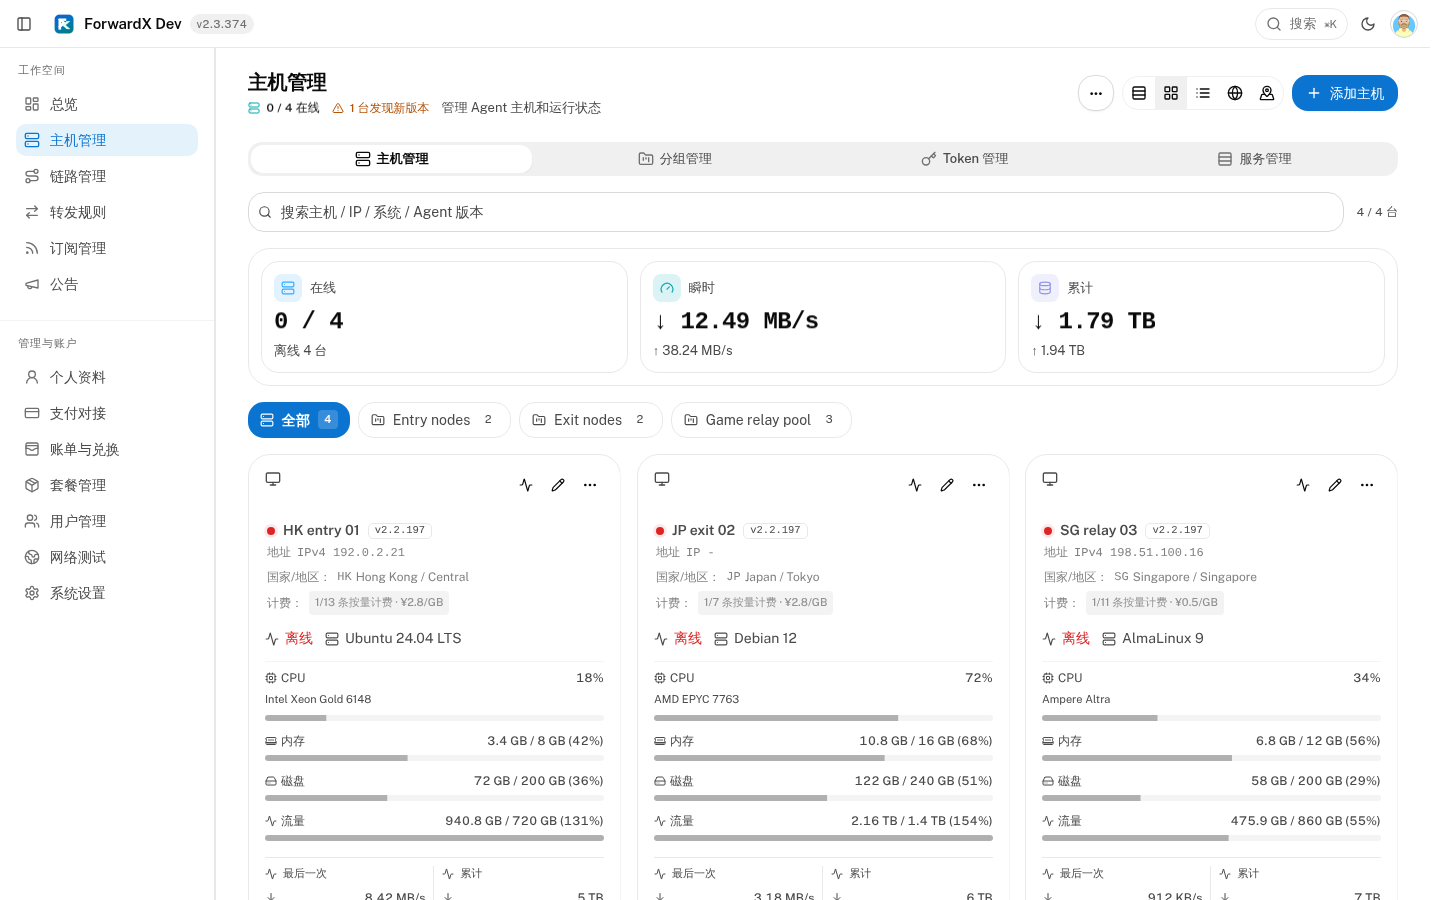
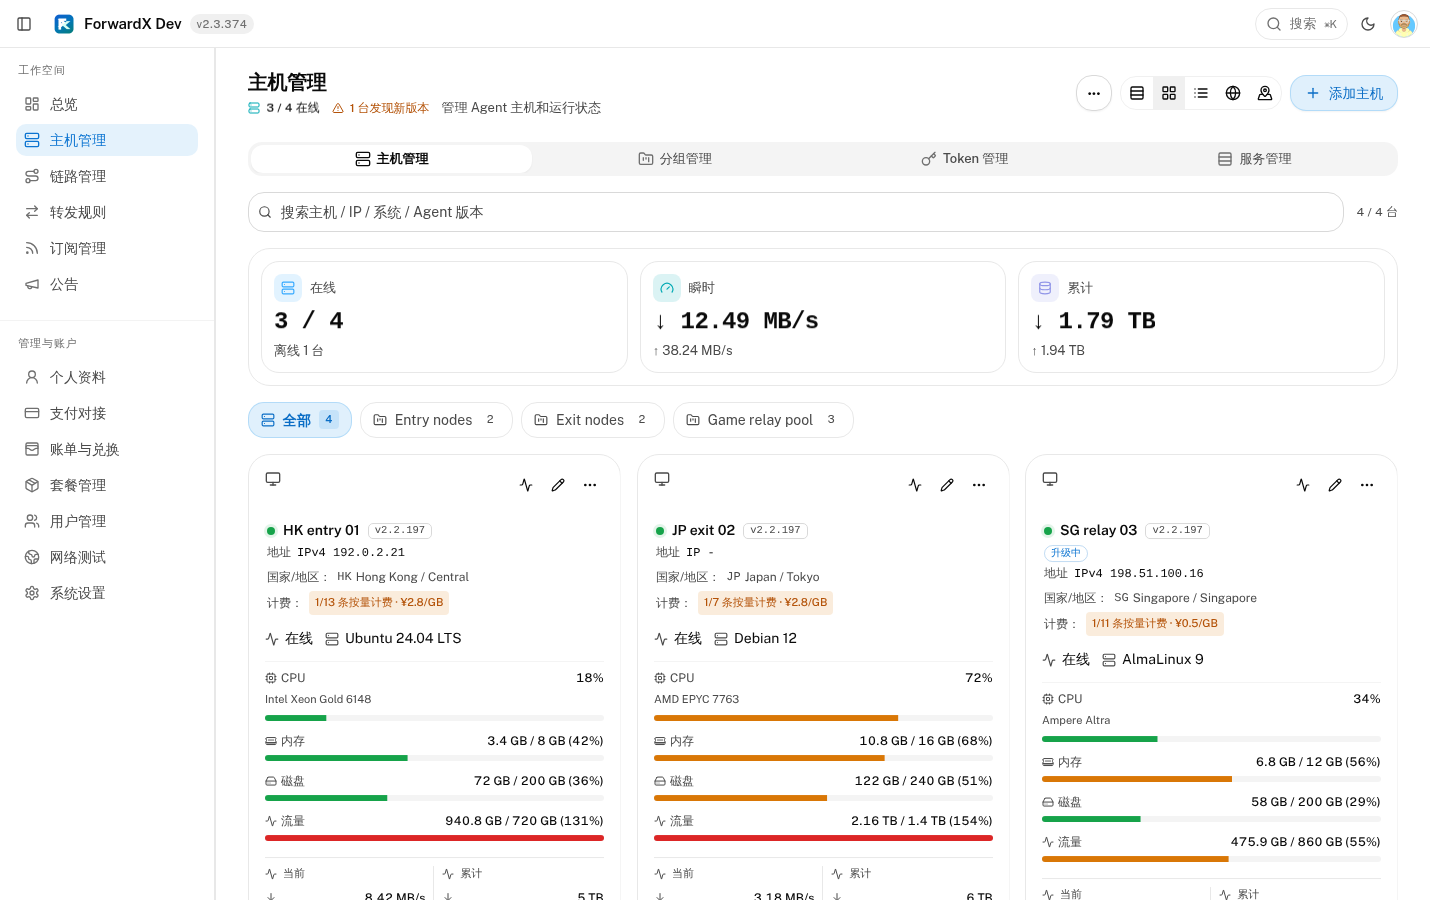
主按钮改成天蓝淡底 + 天蓝字；外壳和弹层换毛玻璃
真机反馈圈了三处：主按钮、分段控件选中项、分类 chip 选中项 —— 都是饱和
的蓝实底白字。改成 iOS tinted：新令牌 --fx-primary-fill / -text / -stroke，
Button default、手机分段选中项、主机分组 chip、首页 journey switch 一起变；
开关 / 复选 / 进度条仍用实底 --fx-accent-fill。

毛玻璃只给固定外壳和弹层：顶栏、底部标签栏、分段控件槽、对话框 / 底部
sheet / 下拉菜单（--fx-glass + backdrop-filter），滚动内容不做模糊，
不支持 backdrop-filter 的浏览器退回实底。

Claude-Session: https://claude.ai/code/session_01D4F5S9bacpgTT23HG89MY2

diff --git a/client/src/styles/workspace.css b/client/src/styles/workspace.css
@@ -6,7 +6,21 @@
   照参考站（New API / Vexo）：一条 48px 的顶栏横贯整个宽度，侧栏从它下面开始。
   顶栏是 sticky 的、和页面同一张白纸，滚起来才浮出下面那条细线。
 */
-.workspace-appbar { position: sticky; top: 0; z-index: var(--fx-z-sticky); flex-shrink: 0; height: calc(var(--fx-header-height) + env(safe-area-inset-top, 0px)); padding-top: env(safe-area-inset-top, 0px); background: color-mix(in srgb, var(--fx-l0-page) 88%, transparent); backdrop-filter: saturate(180%) blur(16px); -webkit-backdrop-filter: saturate(180%) blur(16px); border-bottom: 1px solid var(--fx-stroke-weak); }
+.workspace-appbar { position: sticky; top: 0; z-index: var(--fx-z-sticky); flex-shrink: 0; height: calc(var(--fx-header-height) + env(safe-area-inset-top, 0px)); padding-top: env(safe-area-inset-top, 0px); background: var(--fx-glass); backdrop-filter: var(--fx-glass-blur); -webkit-backdrop-filter: var(--fx-glass-blur); border-bottom: 1px solid var(--fx-stroke-weak); }
+/*
+  毛玻璃（照 iOS 的材质）：固定不动的外壳和浮在内容上面的弹层用 —— 顶栏、底部标签栏、
+  分段控件、对话框、抽屉、弹出菜单。内容从它们底下滑过时透出一点颜色，这是「下面还有」的
+  信号。**滚动的内容本身不做模糊**：backdrop-filter 在手机上每帧都要重算它盖住的那块，
+  盖在一整页列表上就是卡顿的来源；小块、固定的面才划算。不支持 backdrop-filter 的浏览器
+  退回实底。
+*/
+.fx-glass { background: var(--fx-glass); backdrop-filter: var(--fx-glass-blur); -webkit-backdrop-filter: var(--fx-glass-blur); }
+[role="dialog"][data-state="open"].fx-glass-surface,
+[role="menu"].fx-glass-surface, [role="listbox"].fx-glass-surface, .fx-glass-surface { background: var(--fx-glass-strong); backdrop-filter: var(--fx-glass-blur); -webkit-backdrop-filter: var(--fx-glass-blur); }
+@supports not ((backdrop-filter: blur(1px)) or (-webkit-backdrop-filter: blur(1px))) {
+  .workspace-appbar, .fx-tabbar, .fx-glass { background: var(--fx-l1-surface); }
+  .fx-glass-surface { background: var(--fx-l2-elevated, var(--fx-l1-surface)); }
+}
 .workspace-appbar-inner { display: flex; align-items: center; gap: 6px; height: var(--fx-header-height); padding-inline: 8px 10px; }
 .workspace-appbar-icon { display: inline-flex; align-items: center; justify-content: center; width: 32px; height: 32px; border-radius: 10px; color: var(--fx-text-secondary); transition: background-color 120ms, color 120ms; }
 .workspace-appbar-icon:hover { background: var(--fx-hover); color: var(--fx-text); }
@@ -542,9 +556,10 @@
     要左右滑，左边还压着一个滚动箭头。换成数字之后五项一屏放得下。
   */
   .workspace-tabs .workspace-tab { border: 0; border-radius: var(--fx-radius); gap: 3px; font-size: 14px; font-weight: 500; min-height: 34px; padding: 0 7px; }
+  /* 选中项：天蓝淡底 + 天蓝字（iOS tinted），不再是实心蓝底白字 —— 真机反馈那块太重 */
   .workspace-tabs .workspace-tab[data-state="active"] {
-    background: var(--fx-accent-fill); color: var(--fx-accent-fill-foreground); font-weight: 600;
-    box-shadow: none;
+    background: var(--fx-primary-fill); color: var(--fx-primary-text); font-weight: 600;
+    box-shadow: inset 0 0 0 1px var(--fx-primary-stroke);
   }
   .workspace-tab-count {
     min-width: 0; height: auto; padding: 0; border-radius: 0;
@@ -553,7 +568,7 @@
   /* 选中块反色之后数字也跟着反过来，否则青底上一个深灰数字看不见 */
   .workspace-tabs .workspace-tab[data-state="active"] .workspace-tab-count {
     background: transparent;
-    color: color-mix(in srgb, var(--fx-accent-fill-foreground) 78%, transparent);
+    color: color-mix(in srgb, var(--fx-primary-text) 78%, transparent);
   }
 
   /*
@@ -852,7 +867,7 @@
 /* 三步上手 */
 .public-journey-switch { display: flex; gap: 2px; padding: 3px; border: 1px solid var(--fx-stroke-weak); border-radius: var(--fx-radius-pill); background: var(--fx-l1-surface); }
 .public-journey-switch button { min-height: 34px; padding: 6px 16px; border-radius: var(--fx-radius-pill); font-size: 13px; font-weight: 500; color: var(--fx-text-secondary); transition: color 120ms, background-color 120ms; }
-.public-journey-switch button[aria-pressed="true"] { background: var(--fx-accent-fill); color: var(--fx-accent-fill-foreground); }
+.public-journey-switch button[aria-pressed="true"] { background: var(--fx-primary-fill); color: var(--fx-primary-text); box-shadow: inset 0 0 0 1px var(--fx-primary-stroke); }
 .public-journey { display: grid; grid-template-columns: repeat(3, minmax(0, 1fr)); gap: 24px; margin: 0; padding: 0; list-style: none; }
 .public-journey li { min-width: 0; padding: 24px; border: 1px solid var(--fx-stroke-weak); border-radius: var(--fx-radius-surface); background: var(--fx-l1-surface); }
 .public-journey-icon { position: relative; display: grid; place-items: center; width: 56px; height: 56px; margin-bottom: 20px; border: 1px solid var(--fx-stroke-weak); border-radius: 16px; background: var(--fx-l2-group); color: var(--fx-text); }
@@ -1118,9 +1133,9 @@
       标签栏是少数应该半透明的东西：内容从它底下滑过去时透出来的那点颜色
       就是「下面还有，能继续滚」。这是信息，不是装饰。
     */
-    background: color-mix(in srgb, var(--fx-l1-surface) 82%, transparent);
-    backdrop-filter: saturate(180%) blur(20px);
-    -webkit-backdrop-filter: saturate(180%) blur(20px);
+    background: var(--fx-glass);
+    backdrop-filter: var(--fx-glass-blur);
+    -webkit-backdrop-filter: var(--fx-glass-blur);
   }
 
   .fx-tabbar-item {
@@ -1417,4 +1432,17 @@
     max-height: 92svh;
   }
   .fx-action-sheet [data-fx-dialog-close] { display: none; }
+}
+
+/* 分段控件的槽也是毛玻璃：小块、放在页面顶上，模糊代价小。写在最后，压过上面桌面和手机两处的实底。 */
+.workspace-tabs { background: color-mix(in srgb, var(--fx-l3-control-fill) 72%, transparent); backdrop-filter: saturate(160%) blur(12px); -webkit-backdrop-filter: saturate(160%) blur(12px); }
+@supports not ((backdrop-filter: blur(1px)) or (-webkit-backdrop-filter: blur(1px))) { .workspace-tabs { background: var(--fx-l3-control-fill); } }
+
+/*
+  弹层也是毛玻璃：对话框（含手机上的底部 sheet）、下拉菜单、选择框的列表。只改 background-color，
+  手机 sheet 顶上那道用 background-image 画的把手不受影响。
+*/
+.dialog-panel, .action-menu-content, [role="menu"], [role="listbox"] { background-color: var(--fx-glass-strong); backdrop-filter: var(--fx-glass-blur); -webkit-backdrop-filter: var(--fx-glass-blur); }
+@supports not ((backdrop-filter: blur(1px)) or (-webkit-backdrop-filter: blur(1px))) {
+  .dialog-panel, .action-menu-content, [role="menu"], [role="listbox"] { background-color: var(--fx-raised); }
 }

diff --git a/client/src/pages/Hosts.tsx b/client/src/pages/Hosts.tsx
@@ -1124,7 +1124,7 @@ function HostGroupFilterBar({
   const chipClass = (active: boolean) => [
     "inline-flex h-[34px] shrink-0 items-center gap-1.5 rounded-[var(--fx-radius-control)] px-3 text-sm transition-colors sm:h-9 sm:gap-2",
     active
-      ? "bg-[var(--fx-accent-fill)] font-semibold text-[var(--fx-accent-fill-foreground)]"
+      ? "border border-[var(--fx-primary-stroke)] bg-[var(--fx-primary-fill)] font-semibold text-[var(--fx-primary-text)]"
       : "border border-[var(--fx-stroke-weak)] bg-[var(--fx-l1-surface)] text-muted-foreground hover:text-foreground",
   ].join(" ");
   const countForGroup = (group: HostGroupView) => Number(groupCounts[Number(group.id)] || 0);
@@ -1139,7 +1139,7 @@ function HostGroupFilterBar({
       <button type="button" className={chipClass(selectedGroupId === "all")} onClick={() => onSelectGroup("all")}>
         <Server className="h-3.5 w-3.5 max-sm:hidden" />
         <span>全部</span>
-        <span className={cn("rounded px-1.5 py-0.5 text-[11px] tabular-nums", selectedGroupId === "all" ? "bg-[color-mix(in_srgb,var(--fx-accent-fill-foreground)_18%,transparent)] text-[var(--fx-accent-fill-foreground)]" : "text-muted-foreground")}>{totalHosts}</span>
+        <span className={cn("rounded px-1.5 py-0.5 text-[11px] tabular-nums", selectedGroupId === "all" ? "bg-[var(--fx-primary-fill)] text-[var(--fx-primary-text)]" : "text-muted-foreground")}>{totalHosts}</span>
       </button>
       {enabledGroups.map((group) => (
         <button
@@ -1151,7 +1151,7 @@ function HostGroupFilterBar({
         >
           <FolderKanban className="h-3.5 w-3.5 max-sm:hidden" />
           <span className="max-w-[160px] truncate">{group.name}</span>
-          <span className={cn("rounded px-1.5 py-0.5 text-[11px] tabular-nums", selectedGroupId === Number(group.id) ? "bg-[color-mix(in_srgb,var(--fx-accent-fill-foreground)_18%,transparent)] text-[var(--fx-accent-fill-foreground)]" : "text-muted-foreground")}>{countForGroup(group)}</span>
+          <span className={cn("rounded px-1.5 py-0.5 text-[11px] tabular-nums", selectedGroupId === Number(group.id) ? "bg-[var(--fx-primary-fill)] text-[var(--fx-primary-text)]" : "text-muted-foreground")}>{countForGroup(group)}</span>
         </button>
       ))}
     </div>

diff --git a/shared/design-tokens.css b/shared/design-tokens.css
@@ -112,6 +112,20 @@
   --fx-accent-soft: rgb(62 164 236 / 14%);
   --fx-accent-fill: #0b74d1;
   --fx-accent-fill-foreground: #ffffff;
+  /*
+    主按钮、选中的分段项、选中的分类 chip：**不再是一块实心的蓝底白字**。真机反馈那三块
+    "画圈的按钮颜色不喜欢" —— 饱和的皇家蓝实底在一屏白纸上太重。改成 iOS 的 tinted 做法：
+    天蓝兑 16% 的淡底、天蓝的字、一圈天蓝兑 28% 的线。开关 / 复选 / 进度条这类「状态」控件
+    还是用上面的 --fx-accent-fill，那里实底是对的（滑块要有对比）。
+  */
+  --fx-primary-fill: rgb(62 164 236 / 16%);
+  --fx-primary-fill-hover: rgb(62 164 236 / 24%);
+  --fx-primary-text: #0b6ec6;
+  --fx-primary-stroke: rgb(62 164 236 / 28%);
+  /* 毛玻璃：顶栏、底部标签栏、分段控件、弹层用。底色半透明 + 背后模糊，见 workspace.css 的 .fx-glass */
+  --fx-glass: rgb(255 255 255 / 66%);
+  --fx-glass-strong: rgb(255 255 255 / 78%);
+  --fx-glass-blur: saturate(180%) blur(20px);
 
   /*
     ── 状态色 ──
@@ -452,6 +466,13 @@
   --fx-accent-soft: rgb(62 164 236 / 22%);
   --fx-accent-fill: #0e72bc;   /* 参考站深色主按钮 oklch(0.54 0.142 248.5)：炭灰上不刺 */
   --fx-accent-fill-foreground: #ffffff;
+  --fx-primary-fill: rgb(102 182 255 / 18%);
+  --fx-primary-fill-hover: rgb(102 182 255 / 26%);
+  --fx-primary-text: #8ec8ff;
+  --fx-primary-stroke: rgb(102 182 255 / 30%);
+  --fx-glass: rgb(38 38 38 / 66%);
+  --fx-glass-strong: rgb(42 42 42 / 78%);
+  --fx-glass-blur: saturate(160%) blur(20px);
 
   /* 状态色在暗底上要提亮，否则饱和度一样但看着发闷；`-text` 再亮一档给小字 */
   --fx-healthy: #4ade80;

diff --git a/client/src/components/ui/button.tsx b/client/src/components/ui/button.tsx
@@ -11,7 +11,7 @@ import { cn } from "@/lib/utils"
 const buttonVariants = cva("inline-flex items-center justify-center gap-2 whitespace-nowrap rounded-md text-[13.5px] font-medium transition-colors focus-visible:outline-none disabled:pointer-events-none disabled:opacity-50", {
   variants: {
     variant: {
-      default: "bg-primary text-primary-foreground hover:bg-primary/88",
+      default: "border border-[var(--fx-primary-stroke)] bg-[var(--fx-primary-fill)] text-[var(--fx-primary-text)] hover:bg-[var(--fx-primary-fill-hover)]",
       destructive: "bg-destructive text-destructive-foreground hover:bg-destructive/90",
       outline: "border border-[var(--fx-stroke-base)] bg-[var(--fx-l1-surface)] text-foreground hover:bg-[var(--fx-hover)]",
       secondary: "bg-[var(--fx-l3-control-fill)] text-foreground hover:bg-[var(--fx-hover)]",

diff --git a/docs/UI_PREMIUM_POLISH.md b/docs/UI_PREMIUM_POLISH.md
@@ -202,6 +202,20 @@ Vexo 的控制台没登录看不到，它的形状照 New API 源码（`web/src/
 Badge 一律去底去边只留字色（realm / gost / socat 的分类色留着），地址那种 `code` 不再套小框，
 `PersistentPagination` 换成参考站那排小按钮、不再给整条分页描一个框。手机上仍是整卡横向滚动。
 
+**主按钮不再是实心蓝。** 用户在手机截图上圈了三处：「添加主机」主按钮、分段控件里选中的
+「主机管理」、分类条里选中的「全部 4」—— 共同点是饱和的皇家蓝实底 + 白字，一屏白纸上太重。
+改成 iOS 的 tinted 做法：天蓝兑 16% 的淡底、天蓝的字（`#0b6ec6`，白底上 5.4:1）、一圈天蓝兑
+28% 的线；深色是天蓝兑 18% + `#8ec8ff`。走新令牌 `--fx-primary-fill / -text / -stroke /
+-fill-hover`，主按钮（`Button` 的 default）、手机分段控件选中项、主机分组 chip 选中项、首页的
+journey switch 一起变。开关 / 复选框 / 进度条**不跟**：那些是状态控件，实底（`--fx-accent-fill`）
+是对的，白滑块要有对比。备选（没用）：炭灰实底白字，或参考站原色 `#3ea4ec` 实底。
+
+**毛玻璃（照 iOS 26/27 的材质）。** 只给固定不动的外壳和浮在内容上面的弹层：顶栏、手机底部
+标签栏（`--fx-glass` 66% 白 + `saturate(180%) blur(20px)`），分段控件的槽（72% 灰 + `blur(12px)`），
+对话框 / 手机底部 sheet / 下拉菜单 / 选择框列表（`--fx-glass-strong` 78%）。**滚动的内容本身不做
+模糊**：backdrop-filter 每帧要重算它盖住的那块，盖在整页列表上就是卡顿的来源；分类 chip 只是
+半透明白，不模糊。不支持 backdrop-filter 的浏览器用 `@supports not` 退回实底。
+
 **卡顿。** 手机截图里那个「正在加载页面」是切页时的 Suspense 转圈。排下来四件事，都在这一轮改了：
 
 | 事 | 之前 | 现在 |

diff --git a/CHANGELOG.md b/CHANGELOG.md
@@ -8,6 +8,8 @@
 - **统计块**：`SummaryStrip` 和总览页顶部改成「白卡里一排小格」—— 图标底座 + 标签、等宽大数、一行小灰字；总览页右侧一块淡渐变的「当前状态」面，带「查看 N 处需要关注」按钮。图表色板换成参考站的五位。
 - **字体和圆角**：Public Sans Variable 替换 Inter Variable；圆角四档 16 / 18 / 22 / 28（参考站实测值）。
 - **手机主机卡**：CPU / 内存 / 磁盘一行改成三个小灰方块（照 kfchost 套餐卡的规格格）。
+- **主按钮、选中的分段项和分类 chip 不再是实心蓝底白字**：改成天蓝淡底 + 天蓝字 + 一圈淡线（iOS tinted），新令牌 `--fx-primary-*`；开关 / 复选 / 进度条仍是实底。
+- **毛玻璃**：顶栏、手机底部标签栏、分段控件、对话框 / 底部 sheet / 下拉菜单改成半透明 + 背后模糊（`--fx-glass`），滚动的内容不做模糊，不支持的浏览器退回实底。
 - **数据表**：照 Vexo 模型广场的表格视图 —— 16px 圆角卡包表、40px 灰字透明表头、60px 行、1px 行线无斑马纹、表里标签改成彩色文字（realm / gost / socat 的分类色不变）、地址不套小框、分页换成一排 32px 圆角小按钮。转发规则、链路、用户、账单等所有表一起变。
 - **卡顿**：服务端加 gzip 和 `/assets` 一年缓存（入口 JS 850 kB 原来每次原样下）；头像库（445 kB）空闲时再取；动画库改 `LazyMotion` + 动态功能包；切页前先预取那一页的代码（标签栏按下、侧栏悬停、首屏空闲）。入口包 850 → 787 kB（gzip 269 → 244 kB）。
 - 取值依据见 [docs/UI_PREMIUM_POLISH.md](docs/UI_PREMIUM_POLISH.md) 第 9 节。
